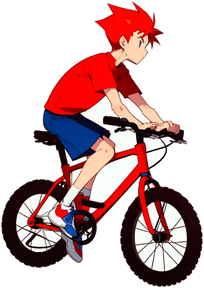
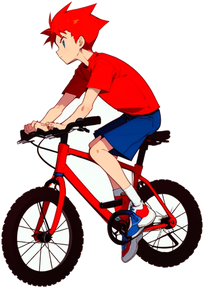
修复骑乘诡异感：朝向翻转 + 接地点修正 + 摆动降频
- 自行车/摩托/恐龙三张骑乘图源图朝右，引擎统一翻转后变成倒着骑；水平翻转为朝左与步行帧一致
- 骑乘图包围盒底 ≠ 车轮接地点（骑手脚/踏板垂得更低），新增 RIDE_GROUND_INSET 按接地下沉修正悬浮
- 颠簸/倾斜频率从 3.5Hz 降到 1.2~1.7Hz（原频率像车身打颤），幅度同步收敛

diff --git a/jump-runner/js/player.js b/jump-runner/js/player.js
@@ -178,11 +178,13 @@ class Player {
         // AI 一体骑乘图（人+坐骑，白底抠图，底部即地面）：优先使用
         const mi = actorImg(skin.sprite, 'ride-' + mountId);
         if (mi) {
-          // 骑乘动感：颠簸弹跳（每步一次）+ 车身小幅倾斜摆动，否则静态图纯平移
-          const rb = this.grounded ? -Math.abs(Math.sin(this.run * 1.5)) * 5 : 0;
-          const rt = this.grounded ? Math.sin(this.run * 1.5) * 0.035 : 0;
+          // 骑乘动感：缓慢颠簸（约 1.7Hz）+ 车身小幅倾斜摇摆（约 1.2Hz），否则静态图纯平移
+          const rb = this.grounded ? -Math.abs(Math.sin(this.run * 0.75)) * 4 : 0;
+          const rt = this.grounded ? Math.sin(this.run * 0.5) * 0.022 : 0;
+          // 图片包围盒底 ≠ 车轮接地点（骑手脚/踏板更低），按接地下沉修正
+          const inset = RIDE_GROUND_INSET[mountId] || 0;
           ctx.save();
-          ctx.translate(x, y + rideH + rb);
+          ctx.translate(x, y + rideH + inset + rb);
           ctx.rotate(this.slide > 0 ? rt * 0.4 : rt);
           drawActor(ctx, mi, 0, 0, RIDE_DRAW_H[mountId] || 100,
             this.slide > 0 ? { sx: 1.06, sy: 0.62 } : {});
@@ -938,6 +940,8 @@ const ACTOR_RUN = ['run1', 'run2', 'run3', 'run4'];
 const ACTOR_POSES = ACTOR_RUN.concat(['jump', 'fall', 'slide', 'ride-pony', 'ride-bicycle', 'ride-moto', 'ride-dino']);
 // 骑乘一体图（含坐骑）的绘制总高（逻辑 px），底部=地面
 const RIDE_DRAW_H = { pony: 140, bicycle: 132, moto: 124, dino: 148 }; // 与 96px 步行身高匹配
+// 图片包围盒底到车轮/脚接地点的距离（游戏 px）：骑手脚/踏板垂在车轮之下
+const RIDE_GROUND_INSET = { pony: 3, bicycle: 3, moto: 3, dino: 9 };
 const ACTOR_H = 96; // 站立/跑/跳姿势图绘制高
 const actorImgs = {};
 let actorCount = 0;
